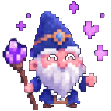
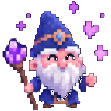
Fill in the wizard's eyes.
The dark pupils were cut out with the sheet background, so the page showed through. They are solid again.

diff --git a/src/components/uriel-mark.tsx b/src/components/uriel-mark.tsx
@@ -15,25 +15,27 @@ type Pose =
   | "walk-left"
   | "disappointed";
 
+const art = "?v=2";
+
 const sprite: Record<Pose, string> = {
-  idle: "/uriel/idle.png",
-  walk: "/uriel/walk.png",
-  look: "/uriel/look.png",
-  happy: "/uriel/happy.png",
-  sit: "/uriel/sit.png",
-  sleep: "/uriel/sleep.png",
-  eat: "/uriel/eat.png",
-  magic: "/uriel/magic.png",
-  "walk-left": "/uriel/walk-left.png",
-  disappointed: "/uriel/disappointed.png",
+  idle: `/uriel/idle.png${art}`,
+  walk: `/uriel/walk.png${art}`,
+  look: `/uriel/look.png${art}`,
+  happy: `/uriel/happy.png${art}`,
+  sit: `/uriel/sit.png${art}`,
+  sleep: `/uriel/sleep.png${art}`,
+  eat: `/uriel/eat.png${art}`,
+  magic: `/uriel/magic.png${art}`,
+  "walk-left": `/uriel/walk-left.png${art}`,
+  disappointed: `/uriel/disappointed.png${art}`,
 };
 
 const bubble: Partial<Record<Pose, string>> = {
-  happy: "/uriel/badge-happy.png",
-  eat: "/uriel/badge-hungry.png",
-  sleep: "/uriel/badge-sleepy.png",
-  magic: "/uriel/badge-magic.png",
-  sit: "/uriel/badge-play.png",
+  happy: `/uriel/badge-happy.png${art}`,
+  eat: `/uriel/badge-hungry.png${art}`,
+  sleep: `/uriel/badge-sleepy.png${art}`,
+  magic: `/uriel/badge-magic.png${art}`,
+  sit: `/uriel/badge-play.png${art}`,
 };
 
 function moods(tone: Tone): Pose[] {
